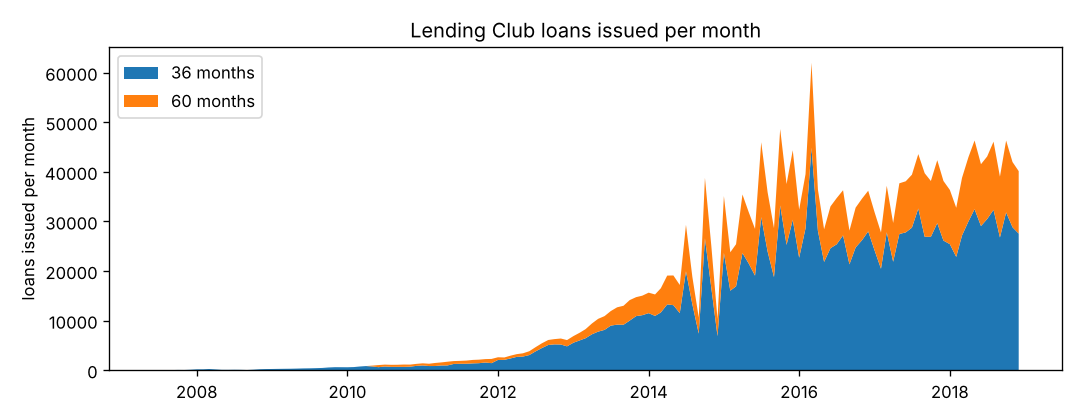
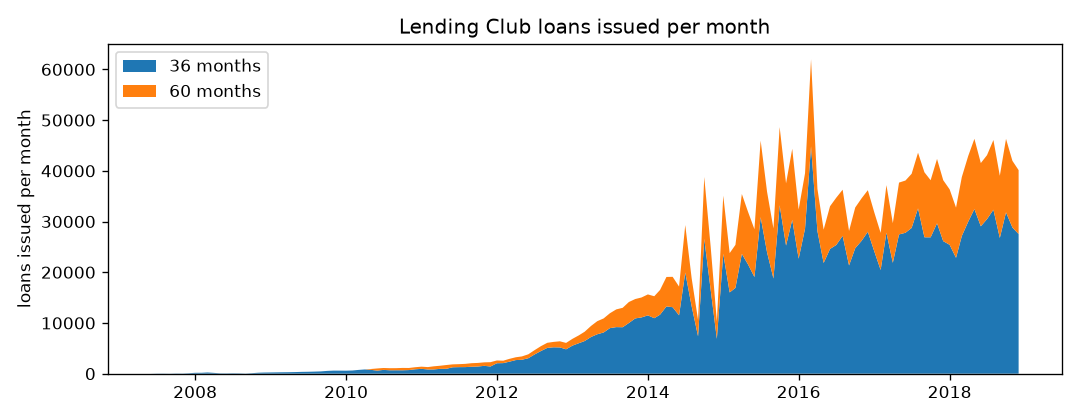
Audit notebook: ignore the machine's matplotlib settings (E-024 root cause)
The cloud machine's /etc/matplotlib/matplotlibrc set the font to Inter, so the
committed figure differed from GitHub's. matplotlib.rcdefaults() removes that;
the figure made again is byte-identical to the one GitHub produced.

Claude-Session: https://claude.ai/code/session_01G3cHS8kLdtpcTngXZ8V2o9

diff --git a/docs/errors.md b/docs/errors.md
@@ -267,7 +267,7 @@ Date: 2026-11-23 · Step: 2.4 · Severity: minor
 
 Date: 2026-11-23 · Step: 2.4 · Severity: minor
 
-- **Symptom**: the first full run of the Notebooks workflow (D-065) on GitHub executed the notebook without error and every table matched, but `reports/data_audit/loans_per_month.png` changed from 58,213 to 49,354 bytes. Decoded, 38,719 pixels differed, spread over the whole plot. In the cloud machine where it was made, the same run gave the same bytes.
-- **Cause**: the figure is drawn from `loans_per_month.csv`, which matched byte for byte, with the same locked library versions, so the drawing itself depends on the machine. Ruled out here: the font (the system copy of DejaVu Sans gives the same image), the CPU paths of numpy and OpenBLAS (turning off AVX-512 gives the same image) and the PNG compression (a first fix compared pixels instead of bytes and still failed). The exact cause was not found, because the artifact with the GitHub image cannot be downloaded from the cloud machine.
-- **Fix**: Juan decided to leave the PNG figures out of the comparison: `git diff --exit-code -- reports/data_audit ':(exclude)*.png'`. A figure is a view of a table that is still compared, so a changed number is still caught. A failed run uploads its outputs as a workflow artifact, kept 14 days.
-- **Prevention**: every number shown in a figure is also written to a table in `reports/data_audit`, which is compared. A figure without its table would not be checked.
+- **Symptom**: the first full run of the Notebooks workflow (D-065) on GitHub executed the notebook without error and every table matched, but `reports/data_audit/loans_per_month.png` changed from 58,213 to 49,354 bytes; decoded, 38,719 pixels differed, spread over the whole plot.
+- **Cause**: the cloud machine where the figure was made has a system-wide `/etc/matplotlib/matplotlibrc` that sets the font to Inter (plus `figure.dpi` and text hinting). matplotlib reads it silently, so the committed figure used Inter while GitHub, without that file, used matplotlib's own DejaVu Sans. The figure depended on the machine's settings, not only on the code and the locked versions. Found by printing the GitHub image in the job log: same plot, different font. On the way, comparing pixels instead of bytes was tried and failed for the same reason.
+- **Fix**: the notebook calls `matplotlib.rcdefaults()` right after choosing the backend, so it ignores any machine settings. The figure was made again: the new file is byte-identical to the one GitHub produced. Independently, Juan decided to leave the PNG figures out of the comparison (`git diff --exit-code -- reports/data_audit ':(exclude)*.png'`): a figure only draws a table that is still compared, so a changed number is still caught, and a figure check is more likely to fail for reasons that are not errors. A failed run uploads its outputs as a workflow artifact, kept 14 days.
+- **Prevention**: `rcdefaults()` makes every figure of the notebook independent of the machine. Every number shown in a figure is also written to a table in `reports/data_audit`, which is compared.

diff --git a/docs/decisions.md b/docs/decisions.md
@@ -744,5 +744,5 @@ Date: 2026-11-23 · Step: F2 (cross-cutting, closes the open point of D-021) · 
 - **Decision**: a `Notebooks` workflow runs `make notebooks` every Monday, by hand, and on pull requests that touch `notebooks/`, `reports/data_audit/`, `uv.lock` or the workflow. It fails if the notebook raises an error or if any file of `reports/data_audit` differs from the committed one. The Kaggle token is a repository secret, `KAGGLE_API_TOKEN`. The notebook file itself is not compared: execution timestamps and kernel metadata change on every run.
 - **Alternatives considered**: (A) on every pull request: the Kaggle token and 1.6 GB on every run, and several minutes more for a notebook that almost never changes; (C) only locally with `make test-data`: free, but nobody watches it.
 - **Why**: the notebook cannot break in silence and normal pull requests stay fast. Running without an error is not enough: a library update or a change in the data could change a number without any error, so the outputs are compared like a regression test.
-- **Consequences**: Juan adds the `KAGGLE_API_TOKEN` secret to the repository. Checked on 2026-11-23: the notebook ran in 1 min 53 s and every file of `reports/data_audit` came out byte-identical. The first run on GitHub showed that a figure does not come out the same on every machine, so the PNG figures are left out of the comparison; the tables they draw are still compared (E-024).
+- **Consequences**: Juan adds the `KAGGLE_API_TOKEN` secret to the repository. Checked on 2026-11-23: the notebook ran in 1 min 53 s and every file of `reports/data_audit` came out byte-identical. The first run on GitHub drew the figure differently from the cloud machine, and Juan decided to leave the PNG figures out of the comparison; the tables they draw are still compared (E-024).
 

diff --git a/docs/technical.md b/docs/technical.md
@@ -445,5 +445,5 @@ D-064 closes D-031. `make test-integration` runs the unit tests and the non-dest
 
 ### F2 cross-cutting: the audit notebook in CI
 
-D-065 closes the open point of D-021. `make notebooks` runs `notebooks/00_data_audit.ipynb` top to bottom with nbconvert and fails if any file of `reports/data_audit` differs from the committed one: byte for byte with `git diff --exit-code`, except the PNG figures (E-024). A figure only draws a table that is compared, such as `loans_per_month.csv`, and its pixels change from one machine to another. A failed run keeps its outputs as a workflow artifact for 14 days. The `Notebooks` workflow runs it every Monday at 05:00 UTC, by hand, and on pull requests that touch the notebook, its outputs, `uv.lock` or the workflow, with the repository secret `KAGGLE_API_TOKEN`. Run here on 2026-11-23: 1 min 53 s, every output byte-identical.
+D-065 closes the open point of D-021. `make notebooks` runs `notebooks/00_data_audit.ipynb` top to bottom with nbconvert and fails if any file of `reports/data_audit` differs from the committed one: byte for byte with `git diff --exit-code`, except the PNG figures (E-024): a figure only draws a table that is compared, such as `loans_per_month.csv`. The notebook resets matplotlib to its built-in defaults, so a figure does not depend on the machine's settings. A failed run keeps its outputs as a workflow artifact for 14 days. The `Notebooks` workflow runs it every Monday at 05:00 UTC, by hand, and on pull requests that touch the notebook, its outputs, `uv.lock` or the workflow, with the repository secret `KAGGLE_API_TOKEN`. Run here on 2026-11-23: 1 min 53 s, every output byte-identical.
 
